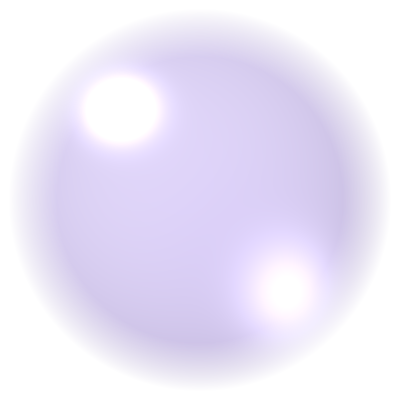
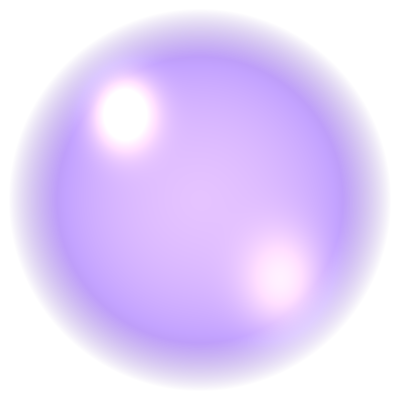
Add files via upload

diff --git a/index.html b/index.html
@@ -243,6 +243,10 @@
 .ball[data-level="7"],.drop-preview[data-level="7"],.next-ball[data-level="7"]{--ink:#9a3c38}
 .ball[data-level="8"],.drop-preview[data-level="8"],.next-ball[data-level="8"]{--ink:#47702c}
 .ball[data-level="9"],.drop-preview[data-level="9"],.next-ball[data-level="9"]{--ink:#8b5814}
+
+.ball::before,.drop-preview::before,.next-ball::before{opacity:1!important;filter:drop-shadow(0 4px 4px #10243d55)!important}
+.ball,.drop-preview,.next-ball{opacity:1!important}
+.ball .marble-letter,.drop-preview .marble-letter,.next-ball .marble-letter{opacity:1!important;filter:none!important}
 </style></head><body><div class="app">
 <header class="hero"><div class="brand"><div class="crest">滅</div><div><div class="eyebrow">THE MUNPA · MELCHEON</div><h1>멸천 문파</h1><div class="sub">하늘을 넘어, 함께 나아가다</div></div></div></header>
 <main>
@@ -265,7 +269,7 @@ function drawGame(){board.replaceChildren();for(const p of pieces){const b=docum
 function startGame(){const nick=document.getElementById('gameNickname').value.trim();if(!nick){alert('닉네임을 입력하세요.');return}gameNick=nick;gameScore=0;document.getElementById('gameBest').textContent=localStorage.getItem('melcheon-best-'+nick)||'0';pieces=[];nextLevel=randLevel();gameActive=true;lastDrop=0;document.getElementById('gameScore').textContent='0';document.getElementById('gameNext').dataset.level=String(nextLevel);document.getElementById('gameNext').innerHTML='<span class="marble-letter">'+emojis[nextLevel]+'</span>';aimX=board.clientWidth/2;updatePreview();drawGame();clearInterval(gameTimer);gameTimer=setInterval(tick,25)}
 function tick(){if(!gameActive)return;const w=board.clientWidth,h=board.clientHeight;for(let i=0;i<3;i++){for(const p of pieces){p.vy=Math.min(9,p.vy+.22);p.y+=p.vy;p.x+=p.vx;p.angle=(p.angle||0)+(p.vx/Math.max(1,sizes[p.level]))*57.2958;p.vx*=.96;const r=sizes[p.level];if(p.x<r){p.x=r;p.vx=0}if(p.x>w-r){p.x=w-r;p.vx=0}if(p.y>h-r){p.y=h-r;p.vy=0} }for(let a=0;a<pieces.length;a++)for(let b=a+1;b<pieces.length;b++){const p=pieces[a],q=pieces[b],dx=q.x-p.x,dy=q.y-p.y,dist=Math.hypot(dx,dy)||1,min=sizes[p.level]+sizes[q.level];if(dist<min){if(p.level===q.level&&p.level<sizes.length-1){const lv=p.level+1;p.x=(p.x+q.x)/2;p.y=(p.y+q.y)/2;p.level=lv;p.x=Math.max(sizes[lv],Math.min(w-sizes[lv],p.x));p.y=Math.min(h-sizes[lv],Math.max(sizes[lv],p.y));p.vx=0;p.vy=0;pieces.splice(b,1);gameScore+=2**lv*10;document.getElementById('gameScore').textContent=gameScore; b--;continue}const overlap=(min-dist)/2,nx=dx/dist,ny=dy/dist;p.x-=nx*overlap;p.y-=ny*overlap;q.x+=nx*overlap;q.y+=ny*overlap;const slip=(q.vy-p.vy)*nx*.12;p.vx-=slip;q.vx+=slip;p.angle=(p.angle||0)-slip*1.5;q.angle=(q.angle||0)+slip*1.5;p.vy=Math.min(p.vy,1);q.vy=Math.min(q.vy,1)}}}drawGame();if(pieces.some(p=>p.y-sizes[p.level]<10&&Math.abs(p.vy)<1)&&Date.now()-lastDrop>1600)endGame()}
 function dropAt(clientX){if(!gameActive)return;if(Date.now()-lastDrop<450)return;const rect=board.getBoundingClientRect(),r=sizes[nextLevel],x=Math.max(r,Math.min(rect.width-r,clientX-rect.left));pieces.push({x,y:r+2,level:nextLevel,vx:0,vy:0,angle:0});nextLevel=randLevel();document.getElementById('gameNext').dataset.level=String(nextLevel);document.getElementById('gameNext').innerHTML='<span class="marble-letter">'+emojis[nextLevel]+'</span>';updatePreview();lastDrop=Date.now()}
-function updatePreview(){const r=sizes[nextLevel],x=Math.max(r,Math.min(board.clientWidth-r,(Number.isFinite(aimX)?aimX:board.clientWidth/2)));preview.innerHTML='<span class="marble-letter">'+emojis[nextLevel]+'</span>';preview.dataset.level=String(nextLevel);preview.style.left=x+'px';guide.style.left=x+'px';preview.style.width=preview.style.height=(r*2)+'px';preview.style.fontSize=Math.round(r*.9)+'px';preview.style.opacity=gameActive?'1':'.45'}
+function updatePreview(){const r=sizes[nextLevel],x=Math.max(r,Math.min(board.clientWidth-r,(Number.isFinite(aimX)?aimX:board.clientWidth/2)));preview.innerHTML='<span class="marble-letter">'+emojis[nextLevel]+'</span>';preview.dataset.level=String(nextLevel);preview.style.left=x+'px';guide.style.left=x+'px';preview.style.width=preview.style.height=(r*2)+'px';preview.style.fontSize=Math.round(r*.9)+'px';preview.style.opacity='1'}
 const stage=document.querySelector('.game-stage');
 function pointAt(e){const rect=board.getBoundingClientRect();aimX=Math.max(0,Math.min(rect.width,e.clientX-rect.left));updatePreview()}
 stage.addEventListener('pointermove',pointAt);
